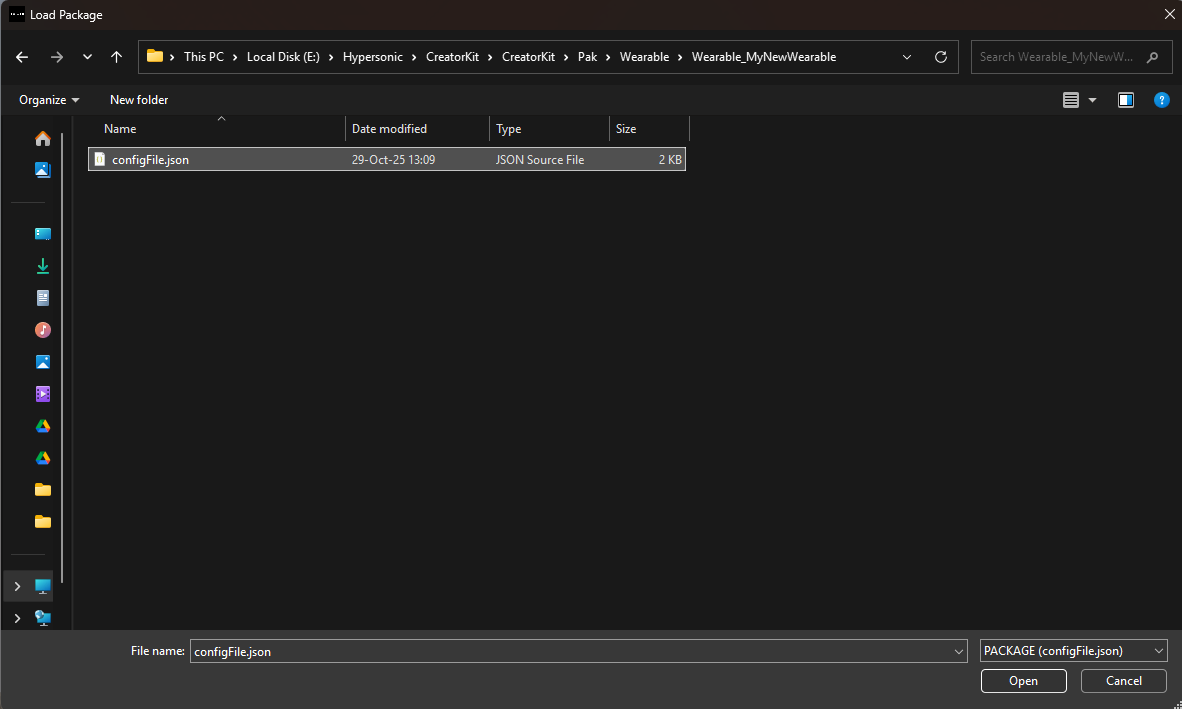
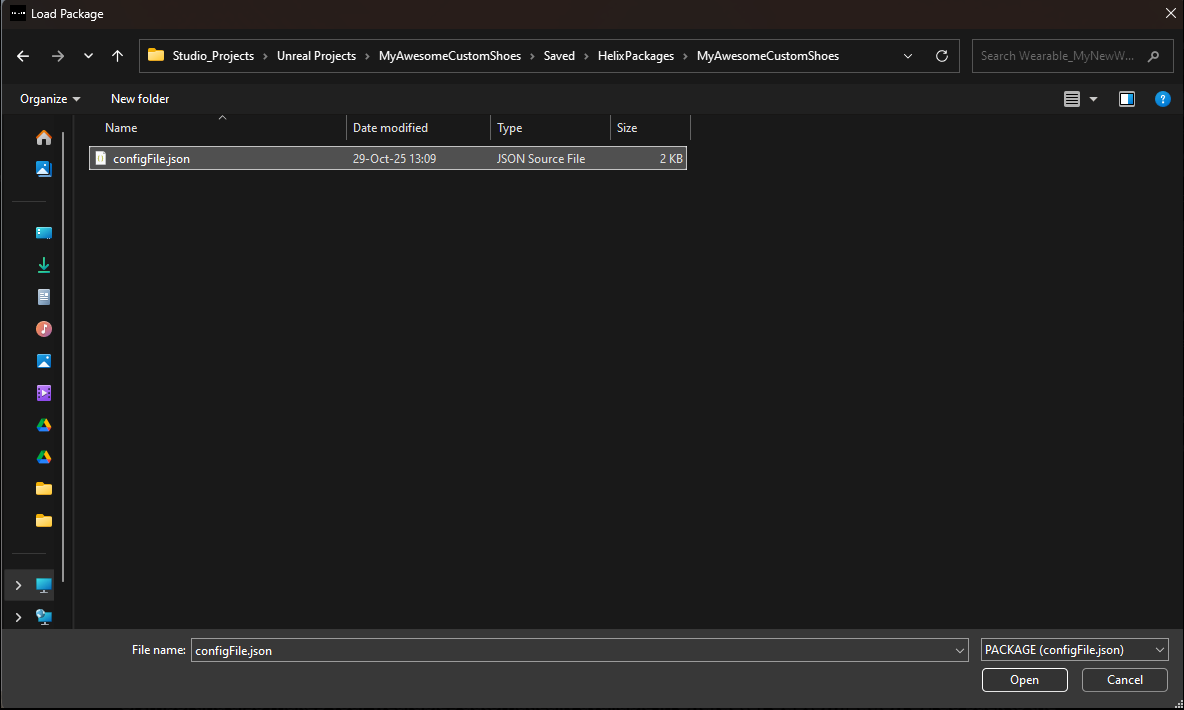
📝 docs: update 'Custom Shoes' tutorial to reflect HELIX Studio workflow instead of Creator Kit, add some minor updates to Vault/Creator Hub references, add new screenshots for a better flow

diff --git a/docs/tutorials/custom_cc_Shoes.md b/docs/tutorials/custom_cc_Shoes.md
@@ -46,22 +46,27 @@ After making the required adjustments, export your shoe model out as a `.fbx`.
 
 ---
 
-## **2. Creator Kit Package setup**
+## **2. HELIX Studio Package Setup**
 
-1. Launch the **Creator Kit** editor.
-2. Access the **HELIX Packaging Tool** from the main toolbar.
-3. In the packaging tool window, click **New Package**.
-4. Enter a unique Package Name (e.g. **MyNewShoes01**).
-5. Select **Wearable** as the **Package Type**.
+1. Launch **HELIX Studio**.
+2. Click **PACKAGE** -> **NEW PACKAGE** on the main toolbar.
+
+    ![image.png](WearableTutImages/19.png)
+
+    <br>
+
+3. Give your package a name, an easy to memorise HELIX URL, set the type to **WEARABLE** and add a description.
+
+    ![image.png](WearableTutImages/20.png)
     
-    ![image.png](WearableTutImages/1.png)
-    
-6. Click **Add New Package**. This action creates a dedicated plugin folder for your assets (e.g., **Plugins/Wearable_MyNewShoes01**).
+    <br>
+
+4. Click **CREATE PACKAGE**. This action creates a dedicated plugin folder for your assets (e.g., **Plugins/YourPackageName**).
     
     ![image.png](WearableTutImages/2.png)
     
-7. Go into the folder you've created and click the **Import** button in content browser. Choose your `.fbx` shoe model file. (You can also drag it into the Content Browser from Windows File Explorer)
-8. Do the same import procedure for any and all textures
+7. Go into the folder you've created and click the **Import** button in content browser. Choose your `.fbx` shoe model file. (You can also drag it into the Content Browser from Windows File Explorer).
+8. Do the same import procedure for any and all textures.
 
 ---
 
@@ -150,40 +155,61 @@ Please note, shoes are not cross compatible between genders, you will have to do
 
 ## **8. Packing**
 
-1. Return to the HELIX Packaging Tool window.
-2. With your package selected, click the **Package** button. This process will cook your assets into the final `.pak` file format required by the HELIX Creator Hub. This may take some time.
+1. Click on **PACKAGES** -> **MANAGE PACKAGES** -> **YOUR PACKAGE NAME**
+
+    ![image.png](WearableTutImages/21.png)  
+
+    <br>
+
+2. Fill in any additional information (optional), make sure the package visibility is set to **PRIVATE** unless you are happy with other creators and players to have access to it. Then click **PUBLISH**.
+
+    ![image.png](WearableTutImages/22.png)  
+
+    <br>
+
+3. Clicking **START** on the PUBLISH DIALOG confirmation prompt will package and publish your new package to the **Vault**. If you don't want your package to be uploaded to the **Vault**, select **PACKAGE LOCALLY** instead. Click **START** when ready.
     
-    ![image.png](WearableTutImages/11.png)
+    ![image.png](WearableTutImages/23.png)
+
+    <br>
+
+3. Once cooking is complete, if in the previous step you choose to publish your package to the **Vault**, you will now see it on **HELIX Creator Hub** as well as in **HELIX Game** client in the **Vault** tab. If you packaged it locally, you can find the files in the following path: `Your_Studio_Projects\Your_Project\Saved\HelixPackages\Your_Project`
     
-3. Once cooking is complete, a file explorer window will automatically open, displaying your final `.pak` files. Your wearable is now ready to be uploaded to the **Creator Hub**!
-    
-    ![image.png](WearableTutImages/12.png)
+    ![image.png](WearableTutImages/24.png)
     
     ---
     
 
 ## **9. Testing your Wearable**
 
-### **1. In Creator Kit**
+### **1. In HELIX Studio**
 
-1. This method doesn't require you to cook the package on the previous steps. As long as you placed all the required assets in your package folder in Creator Kit, and created the data asset as explained, it automatically becomes available for editor playthroughs.
-2. Press play in the **Creator Kit** editor, and press the **P** key to show the **Character Customization UI** for your character.
+1. This method doesn't require you to cook the package on the previous steps. As long as you placed all the required assets in your package folder in **HELIX Studio**, and created the data asset as explained, it automatically becomes available for editor playthroughs.
+2. Press play in the [**HELIX Studio** editor](studio.md#testing-in-editor), and press the **P** key to show the **Character Customization UI** for your character.
 3. In the shown UI, you should be able to navigate to your new wearable and click on it to test it on the character. (e.g. Outfits > Shoes)
 
-### **2. In HELIX**
+### **2. In HELIX Game Client**
 
-1. Create a draft world and import the `.pak` file you've cooked in **Creator Kit**.
+1. Create a draft world and import the `.pak` file you've cooked in **HELIX Studio**.
+
+2. Once in-game, press **N** to open Build Mode (or **ESC** -> **Build Mode**).
+
+3. Then click **FILE** -> **LOAD PACKAGE**, navigate to your package folder and select **configFile.json**.
     
     ![image.png](WearableTutImages/14.png)
+
+    <br>
     
     ![image.png](WearableTutImages/15.png)
+
+    <br>
     
 2. If import was successful, you should see your assets in the left panel.
-3. Importing also makes your wearables automatically available in **Character Customization UI**. Go back to the game from build mode, and the press **P** key.
+3. Importing also makes your wearables automatically available in **Character Customization UI**. Exit **Build Mode** by pressing the PLAY button or **N**, and the press **P** key to open **Character Creator**.
 4. Your imported wearable should be available in the corresponding category.
 
 ---
 
 ## **10. Ready To Rock**
 
-Once you've followed these steps, uploaded your package to Creator Hub, and imported it into your world, your new wearable items will be available for players joining your public world!
+Once you've followed these steps, uploaded your package to the **Vault**, and imported it into your world, your new wearable items will be available for players joining your public world!
